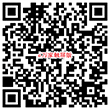
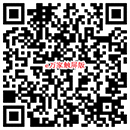
Modify footer-qrcode img and modify it size.

diff --git a/index.html b/index.html
@@ -2359,7 +2359,7 @@
                 <dd><a href="">华润预付卡</a></dd>
             </dl>
             <div class="footer-qrcode">
-                <img class="show" src="assets/images/footer-qrcode.png" alt="" width="110" height="110"/>
+                <img class="show" src="assets/images/footer-qrcode.png" alt="" width="130" height="130"/>
             </div>
         </div>
         <div class="web_map_My">
